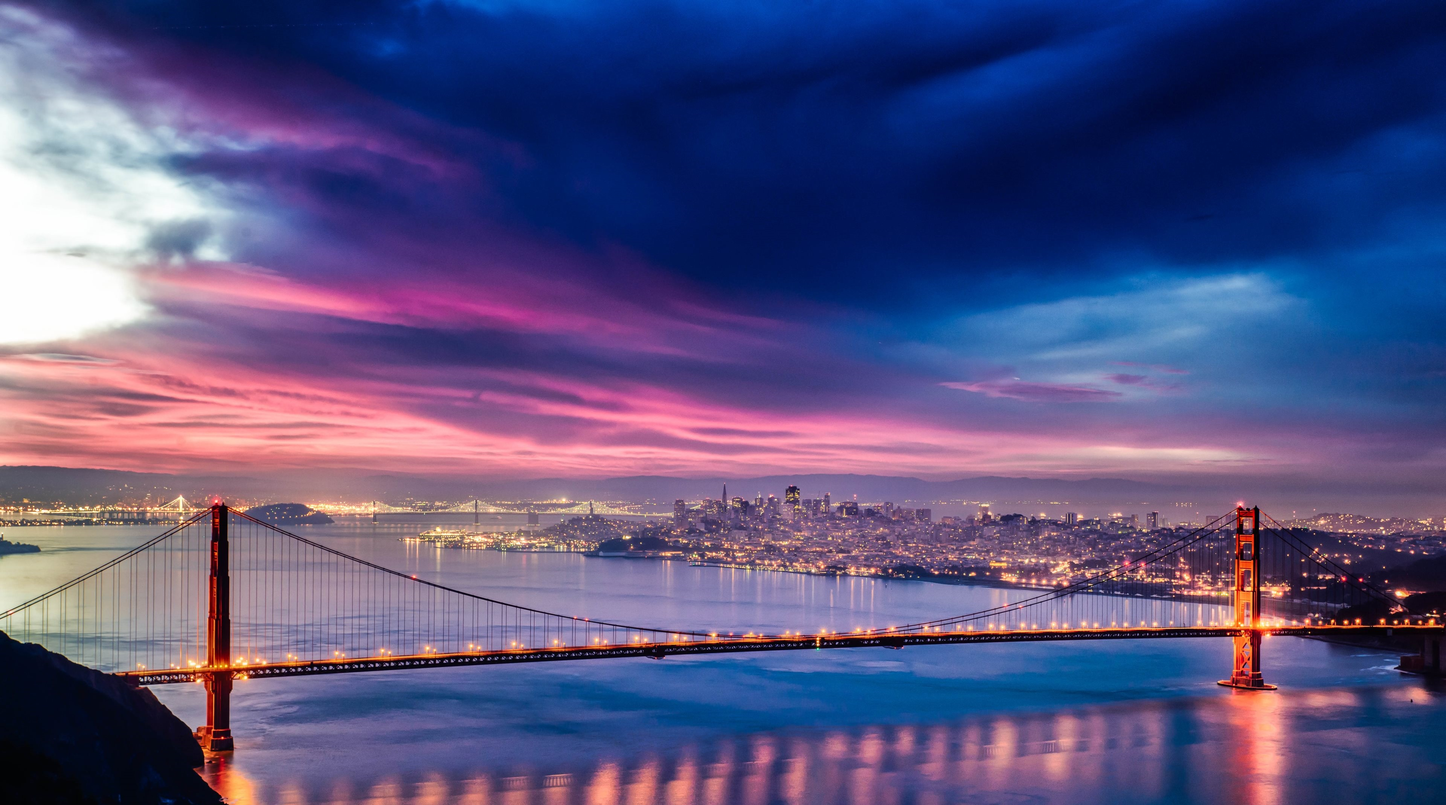
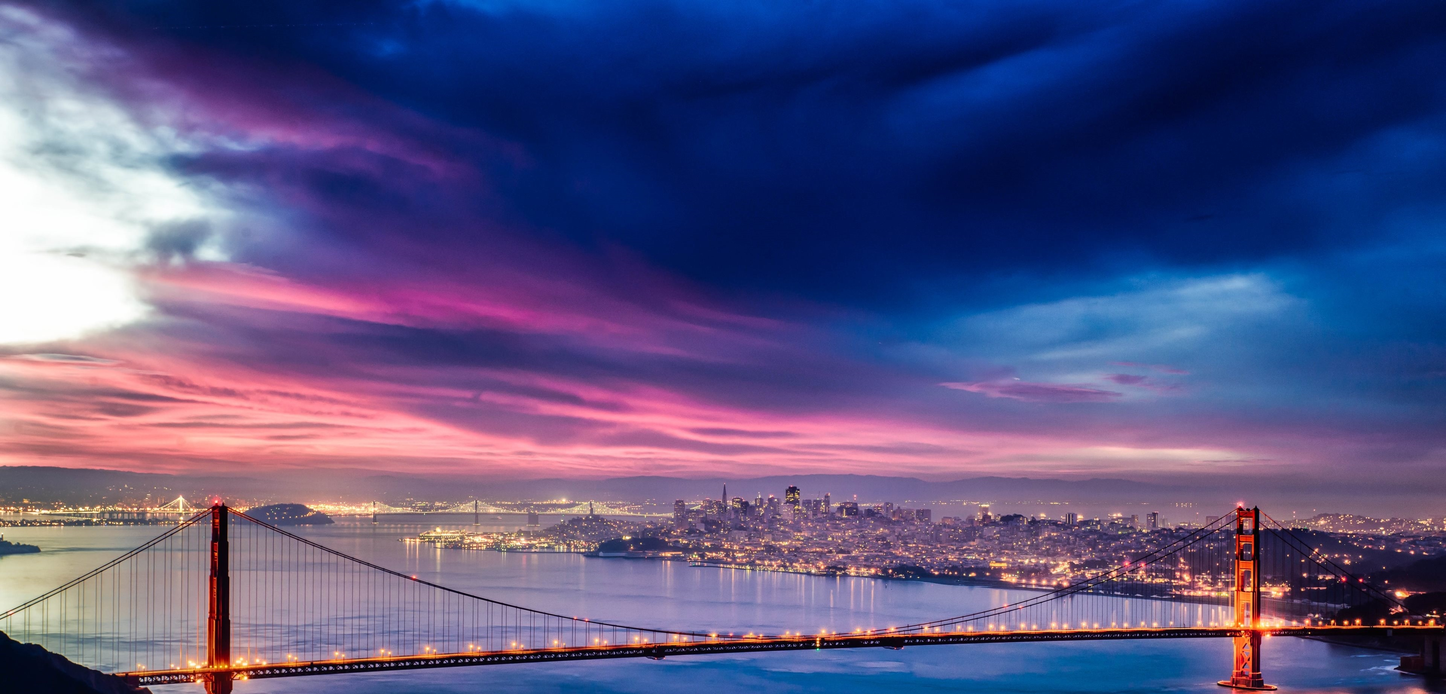
vFinal

diff --git a/index.html b/index.html
@@ -30,7 +30,7 @@
             <a class="nav-link" href="southbay.html">South Bay</a>
           </li>
           <li class="nav-item">
-            <a class="nav-link" href="wine.html">Wine Country and Beyond</a>
+            <a class="nav-link" href="wine.html">The North</a>
           </li>
         </ul>
         <span class="navbar-text">
@@ -48,43 +48,42 @@
         <div class="row">
           <div class="col">
             <h3>The City</h3>
-            <table class="table table-sm">
-              <thead class="thead-inverse table-primary">
-               <tbody>
+              <table class="table table-sm">
+                <thead class="thead-inverse table-primary">
+                 <tbody>
+                   <tr>
+                    <td>Trolley Ride</td>
+                 </tr>
                  <tr>
-                  <td>Trolley Ride</td>
-               </tr>
-               <tr>
-                  <td>China Town</td>
-               </tr>
-               <tr>
-                  <td>Painted Ladies</td>
-               </tr>
-               <tr>
-                  <td>Presidio</td>
-               </tr>
-               <tr>
-                  <td>Golden Gate Bridge</td>
-               </tr>
-            </table>
-            </tbody>
+                    <td>China Town</td>
+                 </tr>
+                 <tr>
+                    <td>Painted Ladies</td>
+                 </tr>
+                 <tr>
+                    <td>Presidio</td>
+                 </tr>
+                 <tr>
+                    <td>Golden Gate Bridge</td>
+                 </tr>
+               </tbody>
+             </table>
           </div>
           <div class="col">
             <h3>South Bay</h3>
-            <table class="table table-sm">
-              <thead class="thead-inverse table-primary">
+              <table class="table table-sm">
                 <tbody>
+                    <tr>
+                     <td>Half Moon Bay</td>
+                  </tr>
                   <tr>
-                   <td>Half Moon Bay</td>
-                </tr>
-                <tr>
-                   <td>Pfeiffer Beach</td>
-                </tr>
-                <tr>
-                   <td>Pacific Coast Highway</td>
-                </tr>
-            </table>
-            </tbody>
+                     <td>Pfeiffer Beach</td>
+                  </tr>
+                  <tr>
+                     <td>Pacific Coast Highway</td>
+                  </tr>
+                </tbody>
+              </table>
           </div>
           <div class="col">
             <h3>The North</h3>
@@ -93,15 +92,15 @@
                   <tbody>
                     <tr>
                      <td>Napa Valley</td>
-                  </tr>
-                  <tr>
-                     <td>Redwoods</td>
-                  </tr>
-                  <tr>
-                     <td>Tahoe</td>
-                  </tr>
+                    </tr>
+                    <tr>
+                       <td>Redwoods</td>
+                    </tr>
+                    <tr>
+                       <td>Tahoe</td>
+                    </tr>
+                </tbody>
               </table>
-            </tbody>
           </div>
         </div>
       </div>

diff --git a/wine.html b/wine.html
@@ -1,7 +1,7 @@
 <!DOCTYPE html>
 <html lang="en">
   <head>
-    <title>Wine Country and Beyond</title>
+    <title>The North</title>
     <meta charset="utf-8">
     <meta name="viewport" content="width=device-width, initial-scale=1, shrink-to-fit=no">
     <link rel="stylesheet" href="https://maxcdn.bootstrapcdn.com/bootstrap/4.0.0-beta/css/bootstrap.min.css">
@@ -30,7 +30,7 @@
             <a class="nav-link" href="southbay.html">South Bay</a>
           </li>
           <li class="nav-item active">
-            <a class="nav-link" href="wine.html">Wine Country and Beyond</a>
+            <a class="nav-link" href="wine.html">The North</a>
           </li>
         </ul>
         <span class="navbar-text">
@@ -68,6 +68,7 @@
           </div>
         </div>
       </div>
+
       <a class="carousel-control-prev" href="#carouselExampleIndicators" role="button" data-slide="prev">
         <span class="carousel-control-prev-icon" aria-hidden="true"></span>
         <span class="sr-only">Previous</span>

diff --git a/styles.css b/styles.css
@@ -21,7 +21,7 @@ body {
   background-repeat: no-repeat;
   background-position: bottom;
   background-size: cover;
-  min-height: 450px
+  min-height: 375px
 }
 
 .jumbotron img {
@@ -33,7 +33,7 @@ body {
   background-repeat:no-repeat;
   background-position: bottom;
   background-size: cover;
-  min-height: 550px;
+  min-height: 450px;
   width: 100%;
 }
 

diff --git a/southbay.html b/southbay.html
@@ -30,7 +30,7 @@
             <a class="nav-link" href="southbay.html">South Bay</a>
           </li>
           <li class="nav-item">
-            <a class="nav-link" href="wine.html">Wine Country and Beyond</a>
+            <a class="nav-link" href="wine.html">The North</a>
           </li>
         </ul>
         <span class="navbar-text">

diff --git a/thecity.html b/thecity.html
@@ -30,7 +30,7 @@
             <a class="nav-link" href="southbay.html">South Bay</a>
           </li>
           <li class="nav-item">
-            <a class="nav-link" href="wine.html">Wine Country and Beyond</a>
+            <a class="nav-link" href="wine.html">The North</a>
           </li>
         </ul>
         <span class="navbar-text">
